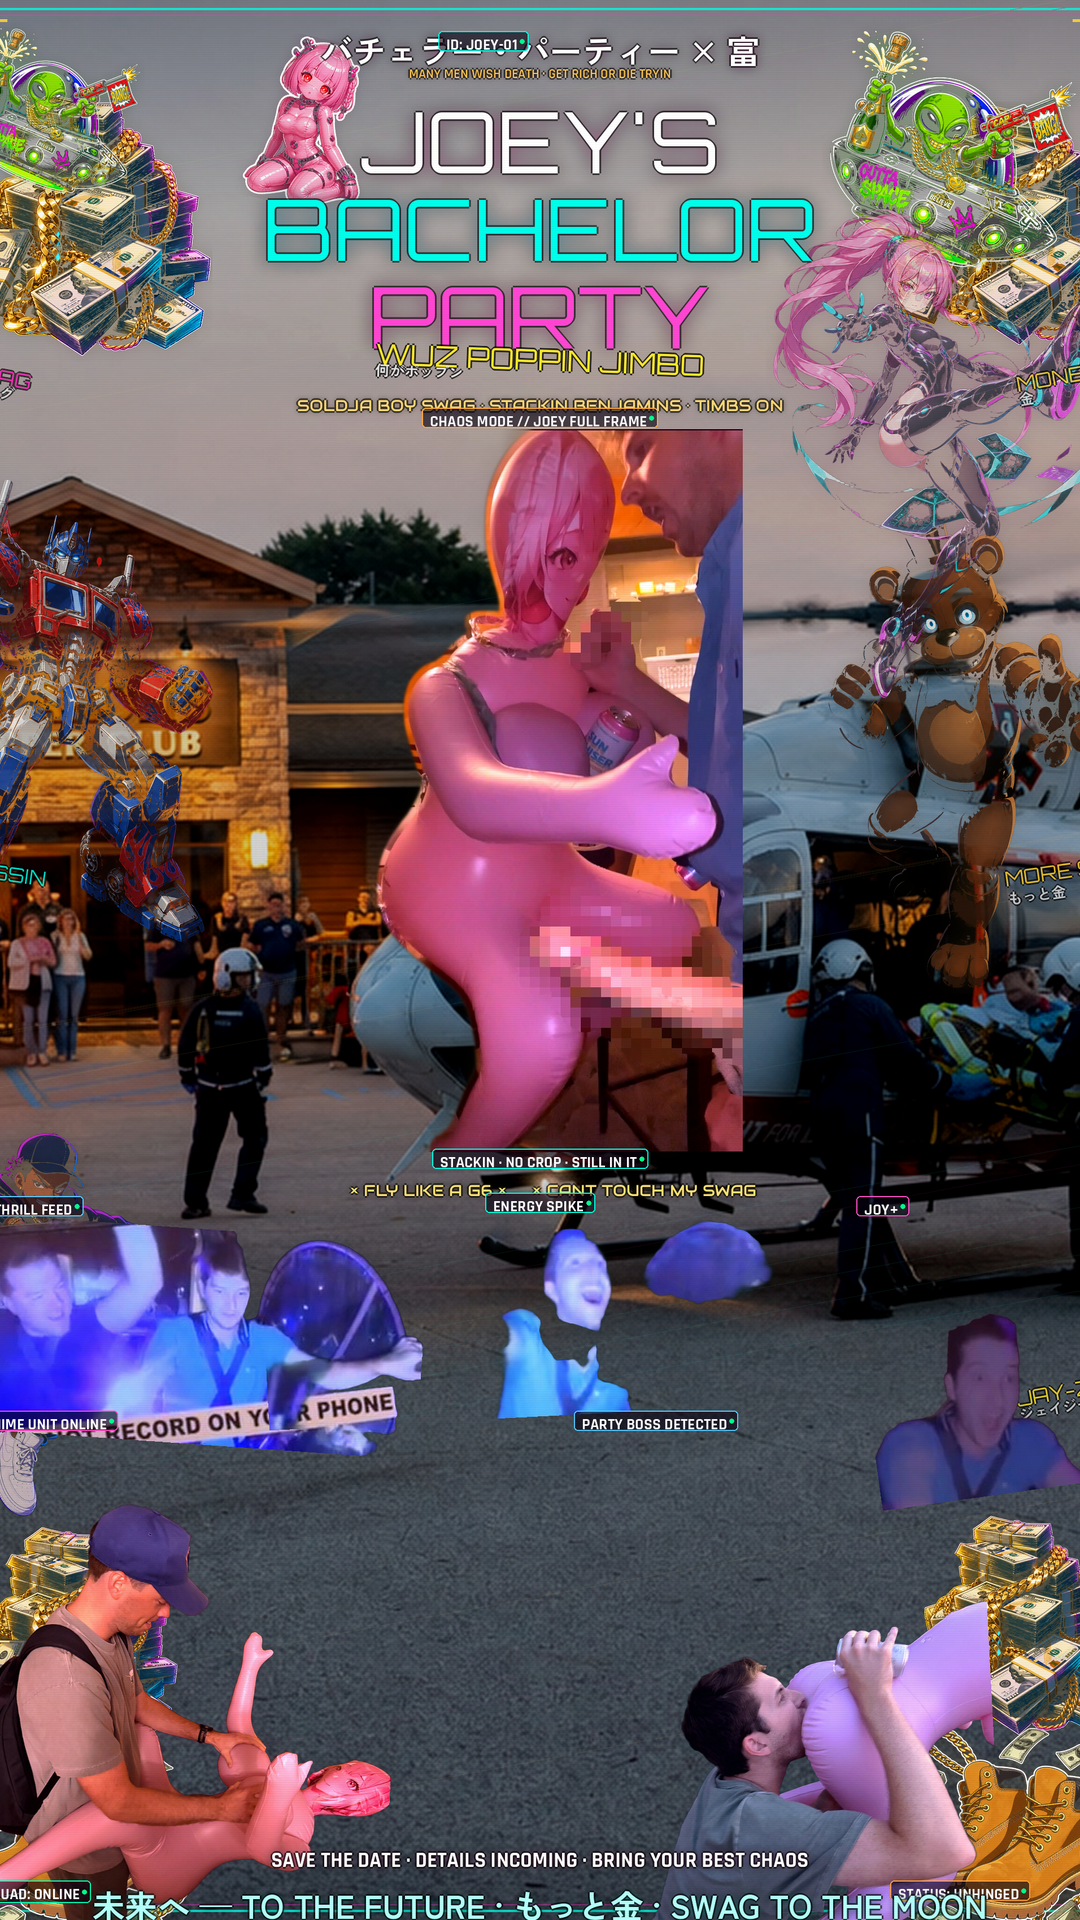
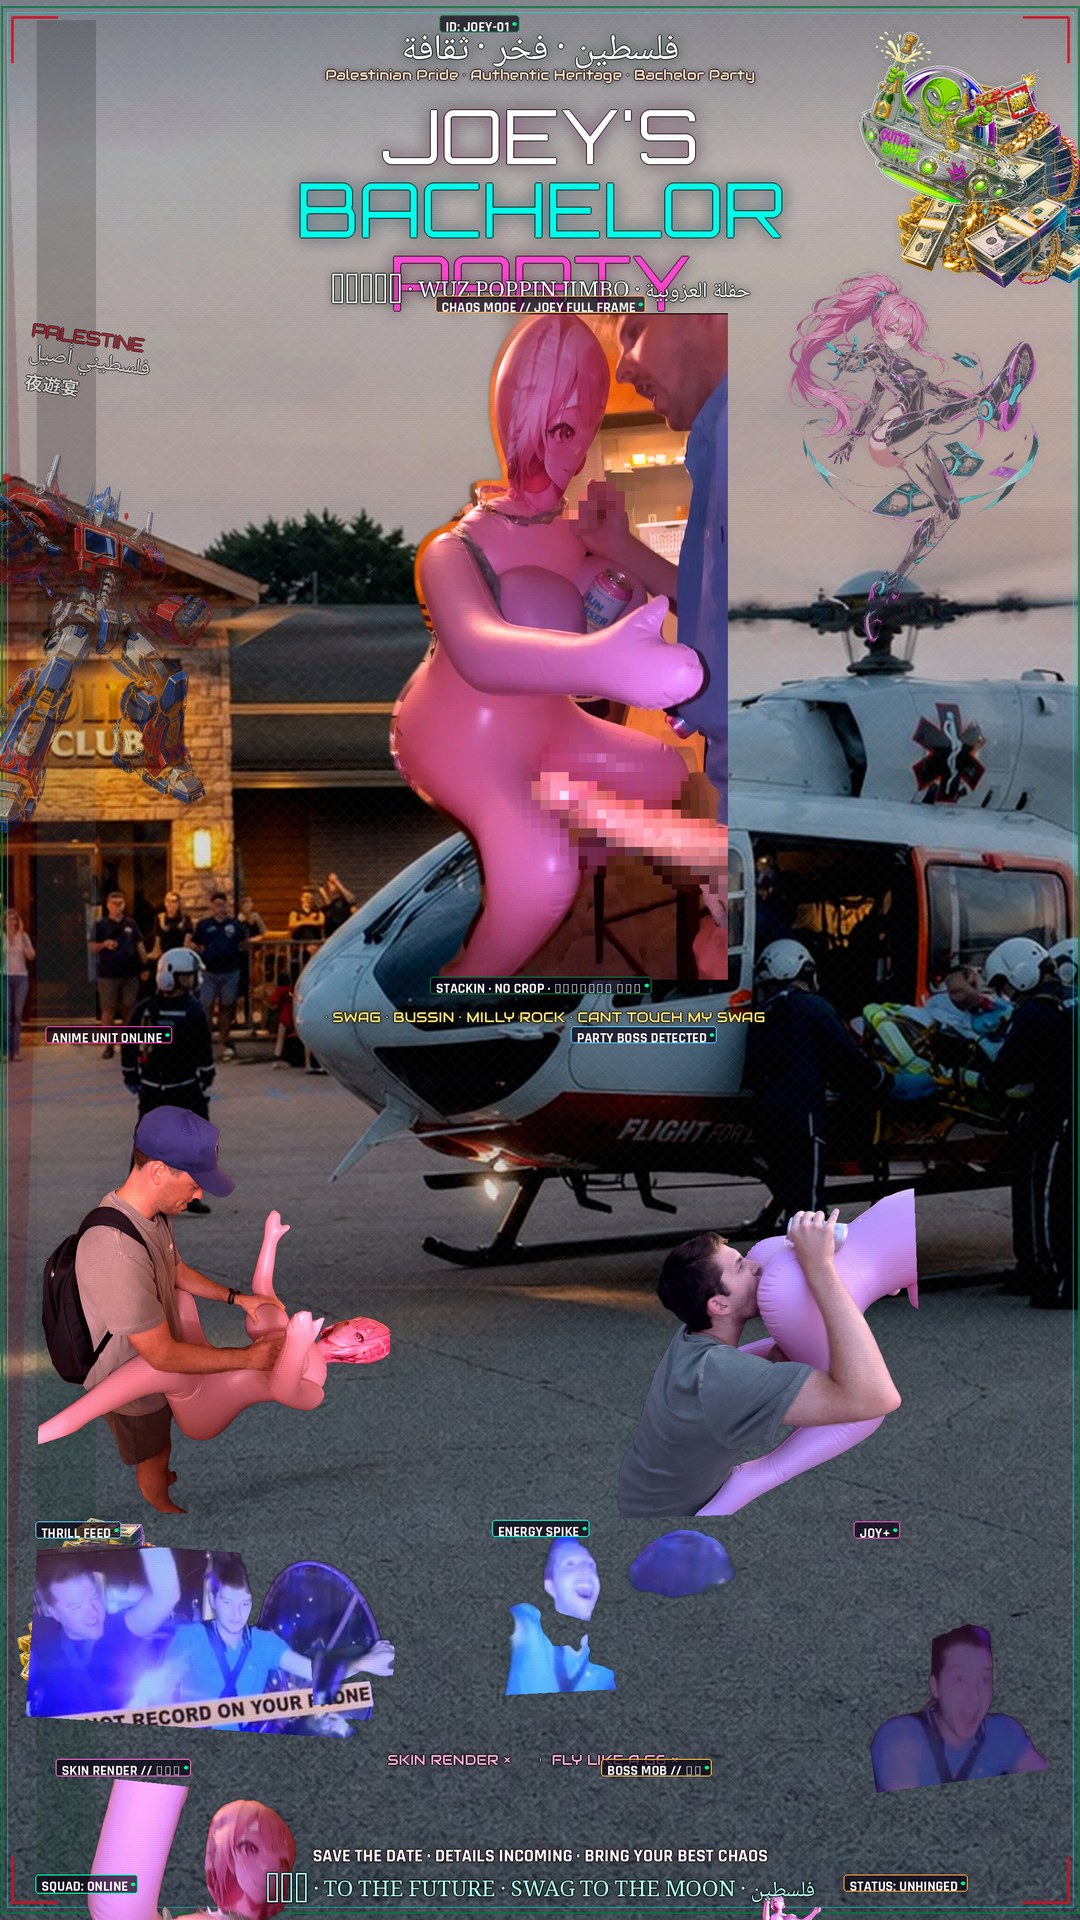
Rebuild bachelor flyer from scratch with Palestinian heritage
Fresh layout: helicopter photo background, large transparent cutout
photos (no black plates), Chaos Mode hero with Joey in frame, and
prominent Palestinian pride — Arabic text, flag colors, keffiyeh motif.
Includes reusable build_flyer.py script.

diff --git a/flyer/build_flyer.py b/flyer/build_flyer.py
@@ -1,0 +1,367 @@
+#!/usr/bin/env python3
+"""Joey bachelor party flyer — full rebuild from scratch."""
+from PIL import Image, ImageDraw, ImageFilter, ImageFont, ImageEnhance, ImageOps, ImageChops
+import os
+import random
+
+W, H = 2160, 3800
+random.seed(2026)
+
+ROOT = "/tmp/bachelor-all"
+CUT = "/tmp/bachelor-cutouts"
+FONT = "/tmp/fonts"
+OUTS = [
+    "/opt/cursor/artifacts/joey_bachelor_party_flyer.png",
+    "/opt/cursor/artifacts/joey_bachelor_party_flyer_MAX.png",
+    "/workspace/flyer/joey_bachelor_party_flyer.png",
+]
+
+# Palestinian flag colors
+PAL_GREEN = (0, 122, 61)
+PAL_RED = (206, 17, 38)
+PAL_BLACK = (0, 0, 0)
+PAL_WHITE = (255, 255, 255)
+
+
+def load(path):
+    im = Image.open(path)
+    try:
+        im = ImageOps.exif_transpose(im)
+    except Exception:
+        pass
+    return im.convert("RGBA")
+
+
+def cover(im, tw, th, focus=(0.5, 0.45)):
+    iw, ih = im.size
+    s = max(tw / iw, th / ih)
+    nw, nh = int(iw * s + 0.5), int(ih * s + 0.5)
+    im2 = im.resize((nw, nh), Image.Resampling.LANCZOS)
+    cx, cy = int(nw * focus[0]), int(nh * focus[1])
+    left = max(0, min(cx - tw // 2, nw - tw))
+    top = max(0, min(cy - th // 2, nh - th))
+    return im2.crop((left, top, left + tw, top + th))
+
+
+def rh(im, h):
+    r = h / im.size[1]
+    return im.resize((max(1, int(im.size[0] * r)), h), Image.Resampling.LANCZOS)
+
+
+def rw(im, w):
+    r = w / im.size[0]
+    return im.resize((w, max(1, int(im.size[1] * r))), Image.Resampling.LANCZOS)
+
+
+def grade(im, hot=False):
+    r, g, b, a = im.split()
+    if hot:
+        r = r.point(lambda p: min(255, int(p * 1.12 + 8)))
+        g = g.point(lambda p: min(255, int(p * 0.94)))
+        b = b.point(lambda p: min(255, int(p * 1.08 + 6)))
+    else:
+        r = r.point(lambda p: min(255, int(p * 1.04 + 4)))
+        b = b.point(lambda p: min(255, int(p * 1.1 + 10)))
+    out = Image.merge("RGBA", (r, g, b, a))
+    return ImageEnhance.Color(ImageEnhance.Contrast(out).enhance(1.1)).enhance(1.2)
+
+
+def neon_glow(im, color=(0, 255, 230), blur=16, strength=0.4):
+    """Neon rim only — transparent outside subject."""
+    a = im.split()[-1]
+    aura = Image.new("RGBA", im.size, (*color, 0))
+    exp = a.filter(ImageFilter.MaxFilter(7)).filter(ImageFilter.GaussianBlur(blur))
+    exp = exp.point(lambda p: int(p * strength))
+    aura.putalpha(exp)
+    base = Image.new("RGBA", im.size, (0, 0, 0, 0))
+    return Image.alpha_composite(Image.alpha_composite(base, aura), im)
+
+
+def paste(base, im, xy, opacity=1.0):
+    if opacity < 1:
+        a = im.split()[-1].point(lambda p: int(p * opacity))
+        im = im.copy()
+        im.putalpha(a)
+    layer = Image.new("RGBA", base.size, (0, 0, 0, 0))
+    layer.paste(im, (int(xy[0]), int(xy[1])), im)
+    return Image.alpha_composite(base, layer)
+
+
+def paste_c(base, im, cx, cy, opacity=1.0):
+    return paste(base, im, (cx - im.size[0] // 2, cy - im.size[1] // 2), opacity)
+
+
+def label(text, font, neon=(0, 255, 230)):
+    d0 = ImageDraw.Draw(Image.new("RGBA", (1, 1)))
+    bb = d0.textbbox((0, 0), text, font=font)
+    tw, th = bb[2] - bb[0] + 32, bb[3] - bb[1] + 16
+    chip = Image.new("RGBA", (tw, th), (0, 0, 0, 0))
+    d = ImageDraw.Draw(chip)
+    d.rounded_rectangle([0, 0, tw - 1, th - 1], radius=6, fill=(8, 0, 20, 210), outline=(*neon, 255), width=2)
+    d.text((12, 5), text, font=font, fill=(255, 255, 255, 255))
+    d.ellipse([tw - 14, th // 2 - 3, tw - 6, th // 2 + 3], fill=(0, 255, 140, 255))
+    return chip
+
+
+def text_glow(canvas, xy, text, font, fill, glow, blur=12):
+    layer = Image.new("RGBA", canvas.size, (0, 0, 0, 0))
+    ImageDraw.Draw(layer).text(xy, text, font=font, fill=(*glow, 210))
+    layer = layer.filter(ImageFilter.GaussianBlur(blur))
+    sharp = Image.new("RGBA", canvas.size, (0, 0, 0, 0))
+    sd = ImageDraw.Draw(sharp)
+    x, y = xy
+    for dx, dy in [(-2, 0), (2, 0), (0, -2), (0, 2)]:
+        sd.text((x + dx, y + dy), text, font=font, fill=(0, 0, 0, 170))
+    sd.text(xy, text, font=font, fill=fill)
+    return Image.alpha_composite(Image.alpha_composite(canvas, layer), sharp)
+
+
+def center_text(canvas, y, text, font, fill, glow, blur=12):
+    bb = ImageDraw.Draw(Image.new("RGBA", (1, 1))).textbbox((0, 0), text, font=font)
+    x = (W - (bb[2] - bb[0])) // 2
+    return text_glow(canvas, (x, y), text, font, fill, glow, blur)
+
+
+def mixed_stamp(en, ar, jp, f_en, f_ar, f_jp, color=(255, 40, 180)):
+    d0 = ImageDraw.Draw(Image.new("RGBA", (1, 1)))
+    b1 = d0.textbbox((0, 0), en, font=f_en)
+    b2 = d0.textbbox((0, 0), ar, font=f_ar)
+    b3 = d0.textbbox((0, 0), jp, font=f_jp)
+    tw = max(b1[2] - b1[0], b2[2] - b2[0], b3[2] - b3[0]) + 32
+    th = (b1[3] - b1[1]) + (b2[3] - b2[1]) + (b3[3] - b3[1]) + 36
+    img = Image.new("RGBA", (tw, th), (0, 0, 0, 0))
+    d = ImageDraw.Draw(img)
+    y = 8
+    for t, f in [(en, f_en), (ar, f_ar), (jp, f_jp)]:
+        for dx, dy in [(-2, 0), (2, 0), (0, -2), (0, 2)]:
+            d.text((16 + dx, y + dy), t, font=f, fill=(0, 0, 0, 220))
+        d.text((16, y), t, font=f, fill=(*color, 255) if t == en else (255, 255, 255, 240))
+        y += d.textbbox((0, 0), t, font=f)[3] - d.textbbox((0, 0), t, font=f)[1] + 6
+    return img
+
+
+def keffiyeh_overlay(w, h, opacity=28):
+    """Subtle keffiyeh fishnet pattern."""
+    layer = Image.new("RGBA", (w, h), (0, 0, 0, 0))
+    d = ImageDraw.Draw(layer)
+    step = 28
+    for x in range(-h, w + h, step):
+        d.line([(x, 0), (x + h, h)], fill=(255, 255, 255, opacity), width=1)
+        d.line([(x, h), (x + h, 0)], fill=(255, 255, 255, opacity), width=1)
+    return layer
+
+
+def palestinian_flag_neon(w, h):
+    """Stylized neon Palestinian flag stripe block."""
+    flag = Image.new("RGBA", (w, h), (0, 0, 0, 0))
+    d = ImageDraw.Draw(flag)
+    # Triangle on hoist
+    d.polygon([(0, 0), (0, h), (int(w * 0.35), h // 2)], fill=(*PAL_RED, 220))
+    # Stripes
+    sh = h // 3
+    d.rectangle([int(w * 0.35), 0, w, sh], fill=(*PAL_BLACK, 200))
+    d.rectangle([int(w * 0.35), sh, w, sh * 2], fill=(*PAL_WHITE, 200))
+    d.rectangle([int(w * 0.35), sh * 2, w, h], fill=(*PAL_GREEN, 200))
+    return flag.filter(ImageFilter.GaussianBlur(1))
+
+
+def build_chaos_hero():
+    """Full chaos photo with Joey on right — transparent, no black box."""
+    full = grade(load(f"{ROOT}/p10_doll_party.jpg"), hot=True)
+    cut = load(f"{CUT}/p10_doll_party_cut.png")
+    a = cut.split()[-1].resize(full.size, Image.Resampling.LANCZOS)
+    a = a.filter(ImageFilter.MaxFilter(19))
+    # Preserve right side (Joey)
+    rx0 = int(full.size[0] * 0.38)
+    right = Image.new("L", full.size, 0)
+    rp = right.load()
+    ww, hh = full.size
+    for x in range(rx0, ww):
+        v = min(255, int(255 * ((x - rx0) / max(1, (ww - rx0) * 0.18))))
+        for y in range(hh):
+            rp[x, y] = v
+    mask = ImageChops.lighter(a, right).filter(ImageFilter.GaussianBlur(2))
+    out = full.copy()
+    out.putalpha(mask)
+    return out
+
+
+def build_background():
+    heli = load(f"{ROOT}/p04_heli.jpg")
+    bg = cover(heli, W, H, focus=(0.5, 0.42))
+    bg = ImageEnhance.Brightness(bg).enhance(0.82)
+    bg = ImageEnhance.Contrast(bg).enhance(1.1)
+    bg = ImageEnhance.Color(bg).enhance(1.12)
+    bg = bg.convert("RGBA")
+
+    # Light top vignette for title readability only
+    vig = Image.new("RGBA", (W, H), (0, 0, 0, 0))
+    vd = ImageDraw.Draw(vig)
+    for i in range(320):
+        vd.line([(0, i), (W, i)], fill=(0, 0, 20, int(65 * (1 - i / 320))))
+    bg = Image.alpha_composite(bg, vig)
+
+    # Keffiyeh heritage overlay
+    bg = Image.alpha_composite(bg, keffiyeh_overlay(W, H, opacity=22))
+
+    # Palestinian flag accent — left vertical band
+    flag = palestinian_flag_neon(180, H - 80)
+    bg = paste(bg, flag, (20, 40), 0.55)
+
+    # Neon frame
+    fx = Image.new("RGBA", (W, H), (0, 0, 0, 0))
+    fd = ImageDraw.Draw(fx)
+    fd.rectangle([12, 12, W - 13, H - 13], outline=(*PAL_GREEN, 200), width=4)
+    fd.rectangle([24, 24, W - 25, H - 25], outline=(0, 255, 230, 120), width=2)
+    for x, y, sx, sy in [(34, 34, 1, 1), (W - 35, 34, -1, 1), (34, H - 35, 1, -1), (W - 35, H - 35, -1, -1)]:
+        fd.line([(x, y), (x + sx * 90, y)], fill=(*PAL_RED, 230), width=5)
+        fd.line([(x, y), (x, y + sy * 90)], fill=(*PAL_RED, 230), width=5)
+    return Image.alpha_composite(bg, fx)
+
+
+def main():
+    canvas = build_background()
+
+    # Fonts
+    f_mega = ImageFont.truetype(f"{FONT}/Orbitron.ttf", 148)
+    f_ar_lg = ImageFont.truetype(f"{FONT}/NotoNaskhArabic.ttf", 72)
+    f_ar = ImageFont.truetype(f"{FONT}/NotoNaskhArabic.ttf", 44)
+    f_jp = ImageFont.truetype(f"{FONT}/ZenKakuGothicNew-Bold.ttf", 36)
+    f_sub = ImageFont.truetype(f"{FONT}/Audiowide-Regular.ttf", 28)
+    f_lab = ImageFont.truetype(f"{FONT}/Rajdhani-Bold.ttf", 28)
+    f_body = ImageFont.truetype(f"{FONT}/Rajdhani-Bold.ttf", 36)
+    f_stamp = ImageFont.truetype(f"{FONT}/Orbitron.ttf", 34)
+
+    # Load transparent cutouts
+    photos = {
+        "bar": grade(load(f"{CUT}/p05_bar_cut.png")),
+        "cabin": grade(load(f"{CUT}/p03_cabin_doll_cut.png"), hot=True),
+        "deck": grade(load(f"{CUT}/p02_deck_doll_cut.png")),
+        "wall": grade(load(f"{CUT}/p01_doll_wall_cut.png"), hot=True),
+        "ride": grade(load(f"{CUT}/p06_ride_energy_cut.png")),
+        "screen": grade(load(f"{CUT}/p07_ride_screen_cut.png")),
+        "face": grade(load(f"{CUT}/p08_ride_face_cut.png"), hot=True),
+        "dclose": grade(load(f"{CUT}/p09_doll_close_cut.png"), hot=True),
+    }
+    chaos = build_chaos_hero()
+
+    # Optional anime/money assets (transparent only, gutters)
+    extras = {}
+    for key, fname in [
+        ("girl", "anime_char_girl_cut.png"),
+        ("money", "benjamin_stacks_cut.png"),
+        ("optimus", "optimus_anime_cut.png"),
+        ("ufo", "ufo_alien_cap_cut.png"),
+    ]:
+        p = f"{CUT}/{fname}"
+        if os.path.exists(p):
+            extras[key] = load(p)
+
+    # ===== TITLE — Palestinian heritage front and center =====
+    canvas = center_text(canvas, 40, "فلسطين · فخر · ثقافة", f_ar_lg, (255, 255, 255, 255), PAL_GREEN, 14)
+    canvas = center_text(canvas, 130, "Palestinian Pride · Authentic Heritage · Bachelor Party", f_sub, (255, 230, 200, 250), PAL_RED, 6)
+    canvas = center_text(canvas, 175, "JOEY'S", f_mega, (255, 255, 255, 255), (255, 50, 180), 16)
+    canvas = center_text(canvas, 320, "BACHELOR", f_mega, (0, 255, 235, 255), (0, 200, 255), 16)
+    canvas = center_text(canvas, 465, "PARTY", f_mega, (255, 70, 210, 255), (255, 40, 180), 16)
+    canvas = center_text(canvas, 540, "حفلة العزوبية · バチェラー · WUZ POPPIN JIMBO", f_ar, (255, 255, 255, 245), PAL_GREEN, 8)
+
+    # Heritage stamp left gutter
+    stamp = mixed_stamp("PALESTINE", "فلسطيني أصيل", "夜遊宴", f_stamp, f_ar, f_jp, PAL_RED)
+    canvas = paste(canvas, stamp.rotate(-8, expand=True, resample=Image.Resampling.BICUBIC), (40, 620), 0.95)
+
+    # Side extras — transparent, never over hero
+    if "money" in extras:
+        canvas = paste(canvas, neon_glow(rh(extras["money"], 420), (255, 210, 60)), (1780, 160), 1.0)
+        canvas = paste(canvas, neon_glow(rh(extras["money"], 380), (255, 210, 60)), (40, 3000), 1.0)
+    if "girl" in extras:
+        canvas = paste(canvas, neon_glow(rh(extras["girl"], 780), (255, 40, 180)), (1560, 520), 0.85)
+    if "optimus" in extras:
+        canvas = paste(canvas, neon_glow(rh(extras["optimus"], 760), (255, 90, 40)), (-60, 900), 0.85)
+    if "ufo" in extras:
+        canvas = paste(canvas, neon_glow(rw(extras["ufo"], 380), (100, 255, 80)), (1700, 50), 1.0)
+
+    # ===== HERO: CHAOS MODE — full Joey, transparent, NO black plate =====
+    hero_h = 1320
+    hero = rh(chaos, hero_h)
+    hero = neon_glow(hero, (255, 170, 70), 20, 0.42)
+    hero_y = 620
+    canvas = paste_c(canvas, hero, W // 2, hero_y + hero.size[1] // 2, 1.0)
+    canvas = paste_c(canvas, label("CHAOS MODE // JOEY FULL FRAME", f_lab, (255, 170, 70)), W // 2, hero_y - 18)
+    canvas = paste_c(canvas, label("فخر فلسطيني · STACKIN · NO CROP", f_lab, (*PAL_GREEN,)), W // 2, hero_y + hero.size[1] + 10)
+
+    band = hero_y + hero.size[1] + 55
+    canvas = center_text(canvas, band, "金 · SWAG · BUSSIN · MILLY ROCK · CANT TOUCH MY SWAG", f_sub, (255, 230, 120, 250), (255, 180, 40), 5)
+
+    # ===== ROW 1 — BIG transparent cutouts, labels above, spaced apart =====
+    r1y = band + 70
+    p_cabin = neon_glow(rh(photos["cabin"], 920), (255, 70, 190), 14, 0.42)
+    canvas = paste(canvas, p_cabin.rotate(-2, expand=True, resample=Image.Resampling.BICUBIC), (80, r1y), 1.0)
+    canvas = paste(canvas, label("ANIME UNIT ONLINE", f_lab, (255, 70, 190)), (100, r1y - 34))
+
+    p_deck = neon_glow(rh(photos["deck"], 920), (80, 200, 255), 14, 0.42)
+    canvas = paste(canvas, p_deck.rotate(2, expand=True, resample=Image.Resampling.BICUBIC), (1120, r1y), 1.0)
+    canvas = paste(canvas, label("PARTY BOSS DETECTED", f_lab, (80, 200, 255)), (1140, r1y - 34))
+
+    # ===== ROW 2 — thrill / energy / joy — BIG, separated =====
+    r2y = r1y + 980
+    p_screen = neon_glow(rw(photos["screen"], 720), (90, 200, 255), 12, 0.4)
+    canvas = paste(canvas, p_screen.rotate(-4, expand=True, resample=Image.Resampling.BICUBIC), (60, r2y), 1.0)
+    canvas = paste(canvas, label("THRILL FEED", f_lab, (90, 200, 255)), (80, r2y - 34))
+
+    p_ride = neon_glow(rw(photos["ride"], 920), (0, 255, 220), 12, 0.4)
+    canvas = paste_c(canvas, p_ride.rotate(3, expand=True, resample=Image.Resampling.BICUBIC), W // 2, r2y + 120, 1.0)
+    canvas = paste_c(canvas, label("ENERGY SPIKE", f_lab, (0, 255, 220)), W // 2, r2y - 20)
+
+    p_face = neon_glow(rh(photos["face"], 460), (255, 80, 200), 12, 0.42)
+    canvas = paste(canvas, p_face.rotate(8, expand=True, resample=Image.Resampling.BICUBIC), (1680, r2y), 1.0)
+    canvas = paste(canvas, label("JOY+", f_lab, (255, 80, 200)), (1700, r2y - 34))
+
+    # ===== ROW 3 — skin render LEFT | wall RIGHT — far apart =====
+    r3y = r2y + 420
+    canvas = center_text(canvas, r3y, "SKIN RENDER × スキン  ·  FLY LIKE A G6 × 空へ", f_sub, (255, 180, 220, 250), (255, 80, 180), 5)
+    r3y += 50
+
+    p_skin = neon_glow(rh(photos["dclose"], 860), (255, 100, 210), 14, 0.45)
+    canvas = paste(canvas, p_skin.rotate(-6, expand=True, resample=Image.Resampling.BICUBIC), (100, r3y), 1.0)
+    canvas = paste(canvas, label("SKIN RENDER // スキン", f_lab, (255, 100, 210)), (120, r3y - 34))
+
+    p_wall = neon_glow(rh(photos["wall"], 860), (255, 60, 190), 14, 0.42)
+    canvas = paste(canvas, p_wall.rotate(5, expand=True, resample=Image.Resampling.BICUBIC), (1180, r3y), 1.0)
+    canvas = paste(canvas, label("BOSS MOB // 空へ", f_lab, (255, 190, 60)), (1200, r3y - 34))
+
+    # ===== MAIN CREW bottom =====
+    r4y = r3y + 940
+    p_bar = neon_glow(rw(photos["bar"], 1380), (0, 255, 230), 16, 0.42)
+    canvas = paste_c(canvas, p_bar, W // 2, r4y + p_bar.size[1] // 2, 1.0)
+    canvas = paste_c(canvas, label("MAIN CREW // ALPHA // 本隊", f_lab, (0, 255, 230)), W // 2, r4y - 28)
+
+    # Status + heritage footer
+    canvas = paste(canvas, label("SQUAD: ONLINE", f_lab, (0, 255, 180)), (80, H - 90))
+    canvas = paste(canvas, label("STATUS: UNHINGED", f_lab, (255, 160, 60)), (1680, H - 90))
+    canvas = paste(canvas, label("ID: JOEY-01", f_lab, (*PAL_GREEN,)), (880, 30))
+
+    canvas = center_text(canvas, H - 150, "SAVE THE DATE · DETAILS INCOMING · BRING YOUR BEST CHAOS", f_body, (255, 255, 255, 255), (255, 60, 180), 7)
+    canvas = center_text(canvas, H - 95, "فلسطين · 未来へ · TO THE FUTURE · SWAG TO THE MOON", f_ar, (180, 255, 250, 255), PAL_GREEN, 8)
+
+    # Light scanlines
+    scan = Image.new("RGBA", (W, H), (0, 0, 0, 0))
+    sd = ImageDraw.Draw(scan)
+    for y in range(0, H, 4):
+        sd.line([(0, y), (W, y)], fill=(0, 0, 0, 8))
+    canvas = Image.alpha_composite(canvas, scan)
+
+    final = canvas.convert("RGB")
+    for p in OUTS:
+        os.makedirs(os.path.dirname(p), exist_ok=True)
+        final.save(p, "PNG", optimize=True)
+
+    story = cover(final.convert("RGBA"), 1080, 1920, (0.5, 0.4)).convert("RGB")
+    story.save("/opt/cursor/artifacts/joey_bachelor_party_flyer_story.png", "PNG", optimize=True)
+    story.save("/workspace/flyer/joey_bachelor_party_flyer_story.png", "PNG", optimize=True)
+
+    final.resize((720, int(720 * H / W))).save("/tmp/flyer_rebuild_review.jpg", quality=90)
+    print("REBUILD OK", final.size, "photos:", len(photos) + 1)
+
+
+if __name__ == "__main__":
+    main()
